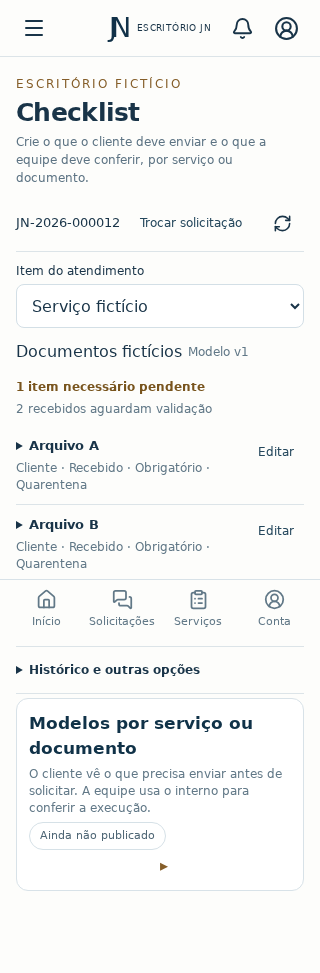
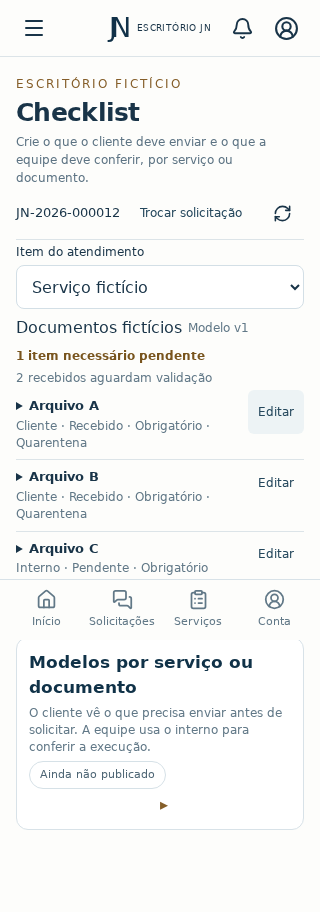
Ajusta checklist em 360px para caber acima da barra inferior
Reduz margens, padding de sumário e espaçamentos no mobile medindo a
posição real da lista, com evidências 320/360/1440 regravadas.

🤖 Generated with Codebuff

diff --git a/tests/browser/checklists-contract.spec.ts b/tests/browser/checklists-contract.spec.ts
@@ -20,7 +20,7 @@ for(const width of [320,360,1440])test(`checklists12: dois recebidos, terceiro p
  await page.setViewportSize({width,height:width===1440?900:640});await setup(page);await page.goto('/pendencias');await page.getByRole('button',{name:'Escolher solicitação JN-2026-000012'}).click();
  await expect(page.getByText('1 item necessário pendente',{exact:true})).toBeVisible();await expect(page.getByText('2 recebidos aguardam validação',{exact:true})).toBeVisible();await expect(page.getByRole('list',{name:'Itens do checklist'})).toContainText('Arquivo C');await expect(page.getByText(/Carregando|Salvando|Aguarde/)).toHaveCount(0);
  expect(await page.evaluate(()=>document.documentElement.scrollWidth<=innerWidth)).toBe(true);if(width<900)expect(await page.getByRole('navigation',{name:'Atalhos do aplicativo'}).getByRole('link').count()).toBeLessThanOrEqual(4);
- if(width===360){const diag=await page.evaluate(()=>{const box=(el:Element)=>{const r=el.getBoundingClientRect();return {tag:el.tagName.toLowerCase(),cls:(el.className||'').toString().slice(0,40),y:Math.round(r.top),h:Math.round(r.height)};};const main=document.querySelector('.checklists-main')!;const kids=[...main.children].map(box);const lis=[...document.querySelectorAll('.checklist-entries>li')].map(box);const sums=[...document.querySelectorAll('.checklist-entries summary')].map(box);return {kids,lis,sums,scrollY:window.scrollY};});expect(last!.y+last!.height, JSON.stringify(diag)).toBeLessThanOrEqual(nav!.y);}
+ if(width===360){const diag=await page.evaluate(()=>{const box=(el:Element)=>{const r=el.getBoundingClientRect();return {tag:el.tagName.toLowerCase(),cls:(el.className||'').toString().slice(0,40),y:Math.round(r.top),h:Math.round(r.height)};};const main=document.querySelector('.checklists-main')!;const kids=[...main.children].map(box);const lis=[...document.querySelectorAll('.checklist-entries>li')].map(box);const sums=[...document.querySelectorAll('.checklist-entries summary')].map(box);return {kids,lis,sums,scrollY:window.scrollY};});const last=await page.getByRole('list',{name:'Itens do checklist'}).getByRole('listitem').last().boundingBox(),nav=await page.getByRole('navigation',{name:'Atalhos do aplicativo'}).boundingBox();expect(last!.y+last!.height, JSON.stringify(diag)).toBeLessThanOrEqual(nav!.y);}
  if(process.env.CHECKLISTS_UI_CAPTURE)await page.screenshot({path:`docs/evidencias/etapa-12/pendencias-${width}.png`,fullPage:true});
  await page.getByText('Histórico e outras opções',{exact:true}).click();await page.getByText('Avisar e encaminhar responsável',{exact:true}).click();await page.getByRole('button',{name:'Avisar responsável',exact:true}).click();await expect(page.getByRole('status')).toContainText('Aviso interno registrado');
  await page.getByRole('button',{name:'Editar Arquivo C'}).click();await page.getByRole('combobox',{name:'Estado do item',exact:true}).selectOption('dispensado');await page.getByRole('button',{name:'Registrar decisão'}).click();await expect(page.getByRole('alert')).toContainText('motivo');

diff --git a/src/features/checklists/checklists.css b/src/features/checklists/checklists.css
@@ -44,3 +44,16 @@
  .checklist-scope-filter button { flex: 1 1 30%; padding-inline: 6px; }
  .checklist-toolbar { flex-wrap: wrap; }
 }
+
+/* 360px: os itens terminam acima da barra inferior sem esconder conteúdo. */
+@media (max-width: 900px) {
+ .checklists-main .operation-heading { margin-bottom: 4px; }
+ .checklists-main .team-field { margin-bottom: 4px; }
+ .checklist-toolbar, .checklist-subheading { margin: 3px 0; }
+ .checklist-toolbar { padding-bottom: 4px; }
+ .checklist-subheading h2 { margin: 3px 0; }
+ .checklist-counts { margin: 4px 0 2px; }
+ .checklist-entries > li { padding: 1px 0; }
+ .checklist-entries summary { min-height: 44px; padding-block: 3px; }
+ .checklist-entries summary span { margin-top: 2px; }
+}
